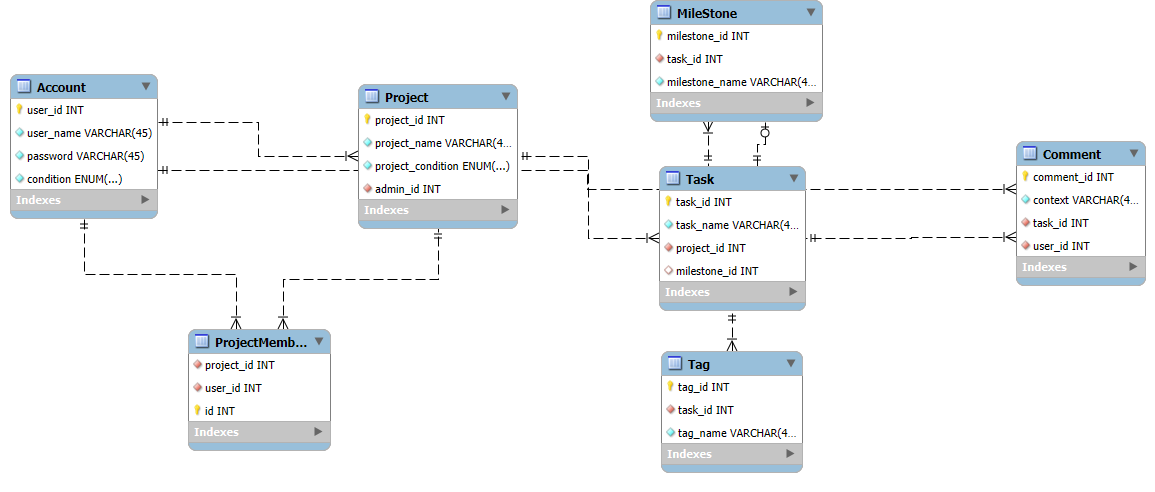
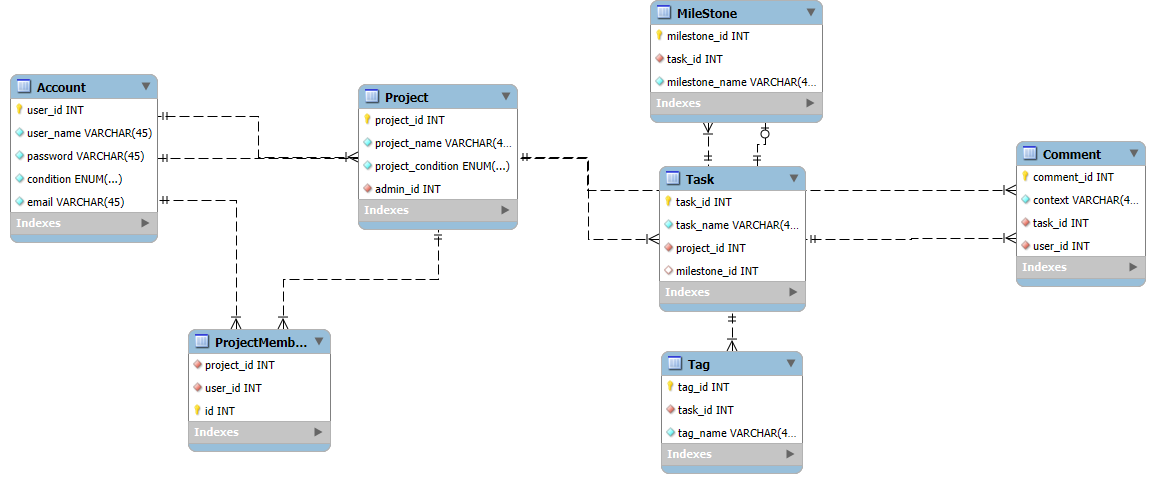
add readme

diff --git a/src/main/java/com/cushion/app/accountapi/config/RedisConfig.java b/src/main/java/com/cushion/app/accountapi/config/RedisConfig.java
@@ -1,0 +1,32 @@
+package com.cushion.app.accountapi.config;
+
+import com.fasterxml.jackson.databind.ObjectMapper;
+import org.springframework.context.annotation.Bean;
+import org.springframework.context.annotation.Configuration;
+import org.springframework.data.redis.connection.RedisConnectionFactory;
+import org.springframework.data.redis.core.RedisTemplate;
+import org.springframework.data.redis.serializer.GenericJackson2JsonRedisSerializer;
+import org.springframework.data.redis.serializer.StringRedisSerializer;
+
+@Configuration
+public class RedisConfig {
+    @Bean
+    public ObjectMapper redisMapper(){
+        return new ObjectMapper();
+    }
+
+    @Bean
+    public RedisTemplate<String, Object> redisTemplate(RedisConnectionFactory redisConnectionFactory, ObjectMapper redisMapper) {
+        RedisTemplate<String, Object> sessionRedisTemplate = new RedisTemplate<>();
+        sessionRedisTemplate.setConnectionFactory(redisConnectionFactory);
+        sessionRedisTemplate.setKeySerializer(new StringRedisSerializer());
+        sessionRedisTemplate.setValueSerializer(new GenericJackson2JsonRedisSerializer());
+        sessionRedisTemplate.setHashKeySerializer(new StringRedisSerializer());
+
+
+        GenericJackson2JsonRedisSerializer serializer =
+                new GenericJackson2JsonRedisSerializer(redisMapper);
+        sessionRedisTemplate.setHashValueSerializer(serializer);
+        return sessionRedisTemplate;
+    }
+}

diff --git a/src/main/java/com/cushion/app/accountapi/model/AccountEntity.java b/src/main/java/com/cushion/app/accountapi/model/AccountEntity.java
@@ -1,0 +1,27 @@
+package com.cushion.app.accountapi.model;
+
+import jakarta.persistence.Entity;
+import jakarta.persistence.Id;
+import jakarta.validation.constraints.Email;
+import jakarta.validation.constraints.Min;
+import jakarta.validation.constraints.NotBlank;
+import lombok.AllArgsConstructor;
+import lombok.NoArgsConstructor;
+
+@NoArgsConstructor
+@AllArgsConstructor
+@Entity
+public class AccountEntity {
+    @Id
+    private int id;
+    @NotBlank(message = "Username is mandatory")
+    private String userName;
+
+    @NotBlank(message = "Password is mandatory")
+    private String password;
+
+    @NotBlank(message = "Email is mandatory")
+    @Email(message = "Email should be valid")
+    private String email;
+
+}
